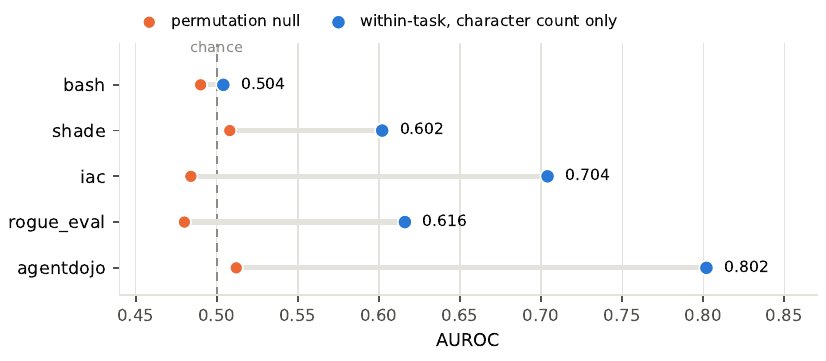
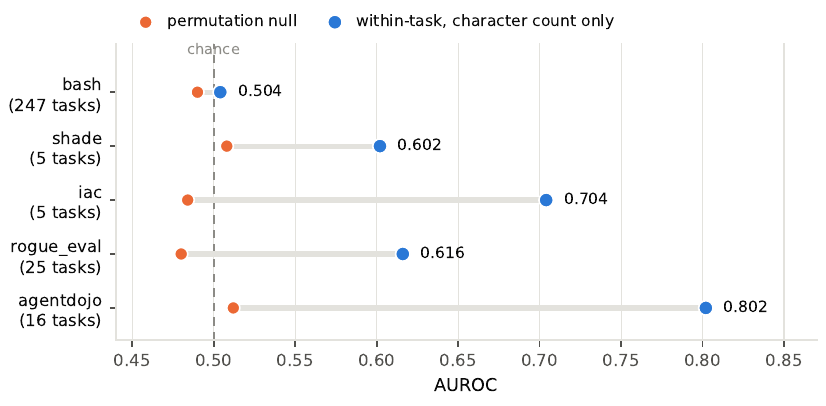
Verify F2's five agentic settings, and surface how uneven their task groups are
scan/matched.py needed ca_*.parquet files that nothing produced — the third
instance of this bug today, after koran_test_code.pkl and rogan_meta.parquet.
fetch_scan.py writes them. It also records the gotcha that rogue_eval ships its
1,500 rows under a "test" split where the other four use "train".

The within-task column — the one the paper reports and F2 draws — reproduces
exactly on all five settings, as does pooled. Three of five task-grouped CV values
move in the third decimal; that column uses GradientBoostingClassifier and its
fitted trees differ across scikit-learn versions. Not our reported column, but the
README publishes it, so the drift is recorded rather than quietly overwritten.

The find worth having: the task-group counts are wildly uneven and nobody had
written that down. shade and iac average their within-task AUROC over FIVE task
groups each; bash averages over 247. A 0.704 over five groups and a 0.504 over 247
are not equally solid, and the README table presented them as peers. F2 now prints
the count beside every setting. It also explains shade's 0.382 task-grouped CV —
with five groups, GroupKFold(5) puts one whole task in each fold.

Adds paper/fig/CAPTIONS.md, which carries the two caveats the outline says belong
in captions, plus the two numbers that must not be written carelessly.

Claude-Session: https://claude.ai/code/session_01M9Wz576ezNi3aDuKnP3f5Y

Changed region(s): [[0.0, 0.0305, 0.9988, 0.9751], [0.3935, 0.0305, 0.7567, 0.0914]]

diff --git a/experiments/apps/figures.py b/experiments/apps/figures.py
@@ -33,13 +33,16 @@ NOCODE_HELDOUT = 0.7163                    # single 413-item held-out slice; cle
 # Never pair 0.7715 with "above 18": that count belongs to 0.7163. 0.7715 clears 20 of 24.
 # Mixing them is exactly R18's companion error, and it reached the README before this was caught.
 
-# scan/ numbers, from experiments/README.md. NOT re-run on this machine yet.
+# scan/ within-task floors and permutation nulls. Re-run on this machine 2026-09-04 by
+# scan/matched.py: all five within-task values reproduce exactly. The fourth column is the number
+# of task groups the within-task AUROC is averaged over, and it is not uniform - shade and iac rest
+# on FIVE groups each, which the paper has to say out loud.
 SCAN = [
-    ("bash",       0.504, 0.490),
-    ("shade",      0.602, 0.508),
-    ("iac",        0.704, 0.484),
-    ("rogue_eval", 0.616, 0.480),
-    ("agentdojo",  0.802, 0.512),
+    ("bash",       0.504, 0.490, 247),
+    ("shade",      0.602, 0.508, 5),
+    ("iac",        0.704, 0.484, 5),
+    ("rogue_eval", 0.616, 0.480, 25),
+    ("agentdojo",  0.802, 0.512, 16),
 ]
 
 
@@ -100,12 +103,12 @@ def fig2_corpora():
     where the data actually lives.
     """
     rows = SCAN[::-1]
-    names = [r[0] for r in rows]
+    names = [f"{r[0]}\n({r[3]} tasks)" for r in rows]
     vals = [r[1] for r in rows]
     nulls = [r[2] for r in rows]
     y = list(range(len(names)))
 
-    fig, ax = plt.subplots(figsize=(5.5, 2.4))
+    fig, ax = plt.subplots(figsize=(5.5, 2.7))
     style(ax)
     ax.axvline(0.5, color=MUTED, lw=1, ls=(0, (4, 3)), zorder=2)
     ax.text(0.5, len(names) - 0.35, "chance", ha="center", va="bottom", fontsize=7, color=MUTED)
@@ -120,7 +123,7 @@ def fig2_corpora():
         ax.text(v + 0.011, i, f"{v:.3f}", va="center", fontsize=7.5, color=INK)
 
     ax.set_yticks(y)
-    ax.set_yticklabels(names, fontsize=8.5, color=INK)
+    ax.set_yticklabels(names, fontsize=8, color=INK, linespacing=1.35)
     ax.set_ylim(-0.6, len(names) - 0.1)
     ax.set_xlim(0.44, 0.87)
     ax.set_xlabel("AUROC", fontsize=8.5, color=INK)
@@ -131,7 +134,8 @@ def fig2_corpora():
     fig.tight_layout(pad=0.4)
     fig.savefig(f"{OUT}/f2-corpus-floors.pdf")
     plt.close(fig)
-    print("F2: 5 settings; bash 0.504 (clean) to agentdojo 0.802 (leaky); nulls 0.480-0.512")
+    print("F2: 5 settings; bash 0.504 (clean, 247 tasks) to agentdojo 0.802 (leaky, 16 tasks); "
+          "nulls 0.480-0.512. shade and iac rest on 5 task groups each.")
 
 
 F1_ROWS = [

diff --git a/experiments/scan/fetch_scan.py b/experiments/scan/fetch_scan.py
@@ -1,0 +1,45 @@
+"""Pull the five ControlArena agentic settings as `ca_<setting>.parquet`.
+
+`matched.py`, `floors.py`, `floors2.py` and `cot.py` all read these and **nothing produced them** —
+the same missing-producer hole that `../apps/fetch_inputs.py` fixes on the APPS side. Run this first.
+
+    python fetch_scan.py
+
+⚠ None of the five declares a licence (`../../notes/05-permissibility.md`). We redistribute nothing:
+this fetches them at run time and `.gitignore` keeps the parquets out. The paper reports aggregates
+only and says the licences are absent.
+
+⚠ `rogue_eval` ships its 1,500 rows under a **`test`** split where the other four use `train`.
+"""
+
+from __future__ import annotations
+
+import io
+
+import pandas as pd
+import requests
+
+SETTINGS = ["bash", "shade", "iac", "rogue_eval", "agentdojo"]
+INFO = "https://datasets-server.huggingface.co/parquet?dataset=adityaasinha28/control_arena_{}"
+
+
+def main() -> None:
+    for s in SETTINGS:
+        r = requests.get(INFO.format(s), timeout=60)
+        r.raise_for_status()
+        files = r.json()["parquet_files"]
+        frames = []
+        for f in files:
+            with requests.get(f["url"], timeout=600) as rr:
+                rr.raise_for_status()
+                frames.append(pd.read_parquet(io.BytesIO(rr.content)))
+        df = pd.concat(frames, ignore_index=True)
+        out = f"ca_{s}.parquet"
+        df.to_parquet(out, index=False)
+        splits = {f["split"] for f in files}
+        print(f"{s:11s} {len(df):5d} rows  splits={sorted(splits)}  "
+              f"attack={int(df.ground_truth.astype(int).sum())}  -> {out}")
+
+
+if __name__ == "__main__":
+    main()

diff --git a/paper/fig/CAPTIONS.md b/paper/fig/CAPTIONS.md
@@ -1,0 +1,57 @@
+# Figure captions — drafted 2026-09-04
+
+The outline says some caveats belong **in the caption, not in Limitations**. Those are marked below.
+Regenerate the figures with `experiments/apps/figures.py`; do not hand-edit the PDFs or the `.tex`.
+
+## F1 · `f1-protocol-baseline.tex`
+
+Carries its own `\caption{}`. The load-bearing clause is the second one — **rows are not comparable
+across protocols** — and it is what stops a reader repeating the round-16 mistake of reading one
+protocol's number against another's.
+
+## F2 · `f2-corpus-floors.pdf`
+
+> **The structural floor in five same-generator agentic settings.** Each setting's content-blind
+> classifier — six count features, no content read — scored *within task* against its own permutation
+> null. No authorship confound is possible here: claude-sonnet-4, gemini-2.5-pro and gpt-5 write both
+> classes in all five. `bash` sits on its null; `agentdojo` reaches 0.802 from character count alone.
+> **The task-group count beside each setting matters:** `shade` and `iac` average over five task
+> groups each while `bash` averages over 247, so these floors are not equally well determined. We
+> report the within-task column because our own pooled numbers partly broke on task composition, and
+> we broke them ourselves. Two of these corpora declare no licence; we redistribute nothing and
+> report aggregates only.
+
+## F3 · `f3-monitors-vs-floors.pdf`
+
+> **Two floors against the 24 open-weight monitors ranked on the same split.** All values are AUROC on
+> Koran et al.'s 1,375-item test split (172 attack / 1,203 honest), comments stripped. Monitor scores
+> are `runs/x0/monitor-summary.json` from Jha (MIT); median 0.609, max 0.937.
+> **Two caveats belong here rather than in Limitations.** (i) The 24 monitors are zero-shot prompted
+> while the bag-of-words classifier is *trained* on the benchmark's own paired train split — this is a
+> statement about what the corpus makes recoverable, in the sense of Gururangan et al., not a claim
+> that bag-of-words is a better monitor. (ii) The no-code floor is fitted **within** the test split by
+> 5×5 cross-validation, because the released train/val split is paired and therefore
+> metadata-balanced; on a single held-out slice of the same items it is **0.7163, above 18 of 24**.
+
+## ⚠ Two numbers that must not be written carelessly
+
+### Never write "0.772, above 18 of 24"
+
+That takes the 5×5 CV *value* and the held-out *count*. The two self-consistent readings are:
+
+| Protocol | Value | Monitors below |
+|---|---|---|
+| 5×5 CV within the test split | **0.7715 ± 0.0389** | **20 of 24** |
+| single 413-item held-out slice | **0.7163** | **18 of 24** |
+
+`experiments/K1-artifact-lineage.md` §4.4 had this right. The summary documents compressed it wrongly
+and it reached the README and this outline. It is R18's companion error — *compare on the same
+protocol or not at all* — committed against ourselves, and building F3 is what caught it, because a
+figure has to pick one number and then count.
+
+### Pairwise accuracies get three decimals, not four
+
+**0.962, 0.979, 0.955.** The resolution of a pairwise accuracy over 2,641 pairs is 1/2,641 = 0.00038,
+so a fourth decimal is a single pair. Re-running on a second machine moved exactly one pair in two of
+these numbers (`experiments/REPRODUCED.md`). AUROCs are not threshold-sensitive in that way and match
+to four decimals.

diff --git a/experiments/README.md b/experiments/README.md
@@ -66,6 +66,7 @@ we redistribute nothing and report aggregates only, and the paper says so.
 
 | Script | What it computes |
 |---|---|
+| `fetch_scan.py` | The five `ca_*.parquet` corpora, fetched at run time. **Run this first** — everything below reads them. |
 | `floors.py`, `floors2.py` | The structural floor from six count features that read **no content** — `chars`, `lines`, `words`, `[ASSISTANT]`, `[TOOL]`, `[TOOL CALLS]`. |
 | `cot.py` | The 15-word regex over the untrusted policy's own scratchpad. AUROC 0.76–0.82 across all five settings, because prompted attack policies restate their side task in the reasoning the monitor reads. **One paragraph in the paper, not a section** — `2607.09786` owns this instrument. |
 | `bash_bench.py`, `prov.py` | Per-class generator provenance, and the rejection of `AISafety-Student/labeled-bashBench` (its `danger_level` annotation *is* the label — circular). |
@@ -74,13 +75,19 @@ we redistribute nothing and report aggregates only, and the paper says so.
 
 **The column that goes in the paper is the third one**, not the first:
 
-| setting | pooled 5-fold | task-grouped CV | **within-task, chars only** | permutation null |
-|---|---|---|---|---|
-| bash | 0.609 | 0.630 | **0.504** — clean | 0.490 |
-| shade | 0.664 | 0.382 | 0.602 | 0.508 |
-| iac | 0.535 | 0.602 | **0.704** | 0.484 |
-| rogue_eval | 0.668 | 0.673 | 0.616 | 0.480 |
-| agentdojo | 0.932 | 0.867 | **0.802** — leaky | 0.512 |
+| setting | pooled 5-fold | task-grouped CV | **within-task, chars only** | permutation null | task groups |
+|---|---|---|---|---|---|
+| bash | 0.610 | 0.624 | **0.504** — clean | 0.490 | **247** |
+| shade | 0.664 | 0.382 | 0.602 | 0.508 | **5** |
+| iac | 0.535 | 0.602 | **0.704** | 0.484 | **5** |
+| rogue_eval | 0.668 | 0.686 | 0.616 | 0.480 | 25 |
+| agentdojo | 0.932 | 0.866 | **0.802** — leaky | 0.512 | 16 |
+
+⚠ **The last column is not decoration.** `shade` and `iac` average their within-task AUROC over
+**five** task groups; `bash` averages over 247. Those numbers are not equally solid and the paper
+says so. It is also why `shade`'s task-grouped CV is 0.382 — with five groups, `GroupKFold(5)` puts
+one entire task in each fold. Re-run 2026-09-04 (`../REPRODUCED.md`); the within-task column
+reproduces exactly, the task-grouped column moves in the third decimal across scikit-learn versions.
 
 The scan attacked its own pooled numbers and they partly broke on task composition. That is why the
 within-task column is the honest one, and why **both outcomes already sit inside one table**: bash is

diff --git a/experiments/REPRODUCED.md b/experiments/REPRODUCED.md
@@ -54,8 +54,34 @@ threshold-sensitive in this way, match to four decimals.
 The resolution of a pairwise accuracy over 2,641 pairs *is* 1/2,641, so a fourth decimal is one pair
 and is false precision. Do not let the 0.9621 in `RECOMPUTE.md` become a four-decimal claim.
 
+## The five agentic settings, re-run 2026-09-04
+
+Fetched with the new `scan/fetch_scan.py` (they had no producer either) and re-run through
+`scan/matched.py`.
+
+| setting | pooled | task-grouped CV | **within-task** (the paper's column) | task groups |
+|---|---|---|---|---|
+| bash | 0.6099 ✅ | 0.6239 (was 0.630) ⚠ | **0.5044** ✅ | 247 |
+| shade | 0.6637 ✅ | 0.3819 ✅ | **0.6022** ✅ | 5 |
+| iac | 0.5346 ✅ | 0.6022 ✅ | **0.7041** ✅ | 5 |
+| rogue_eval | 0.6680 ✅ | 0.6864 (was 0.673) ⚠ | **0.6158** ✅ | 25 |
+| agentdojo | 0.9320 ✅ | 0.8655 (was 0.867) ⚠ | **0.8020** ✅ | 16 |
+
+**The within-task column — the one that goes in the paper and the one F2 draws — reproduces exactly
+on all five.** So does pooled. Three of the five task-grouped CV values move in the third decimal;
+that column uses `GradientBoostingClassifier`, whose fitted trees differ across scikit-learn
+versions. It is not the column we report, but `experiments/README.md` publishes it, so the drift is
+recorded rather than quietly overwritten.
+
+### ⚠ The task-group counts are wildly uneven, and this had not been recorded
+
+`shade` and `iac` average their within-task AUROC over **five task groups each**; `bash` averages over
+**247**. A 0.704 computed within five groups and a 0.504 computed within 247 are not equally solid,
+and the README table presented all five as if they were. **F2 now prints the group count beside every
+setting**, and the paper must say it. It also explains `shade`'s task-grouped CV of 0.382 — with five
+groups, `GroupKFold(5)` puts one whole task in each fold.
+
 ## Still not reproduced here
 
-- **The five agentic settings (`scan/`)** — the `bash` 0.504 … `agentdojo` 0.802 column that **F2 is
-  drawn from**. The numbers come from `README.md`; those five corpora have not been re-fetched on this
-  machine. ⚠ This is now the only figure in the paper whose data has not been re-verified here.
+Nothing load-bearing. `floors.py`, `floors2.py`, `cot.py` and `apps.py`/`apps2.py` in `scan/` have not
+been re-run; their outputs are supporting detail, not figure or abstract numbers.
